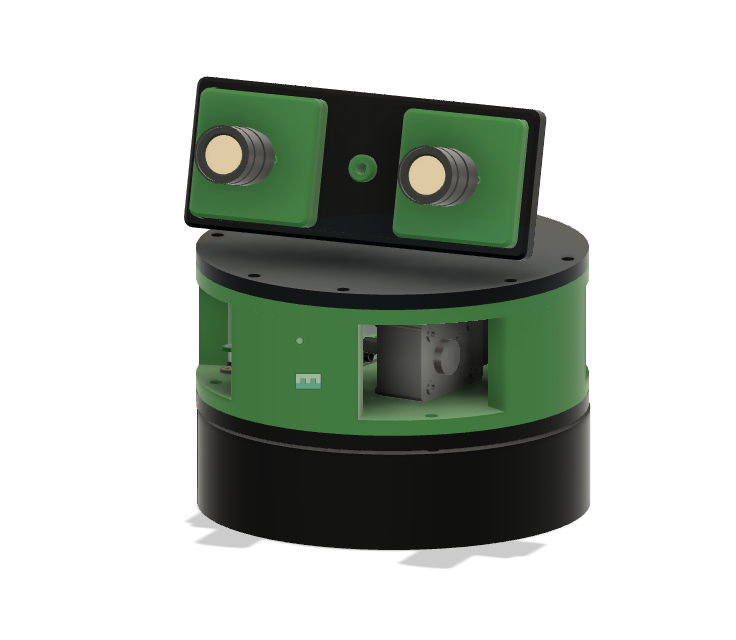
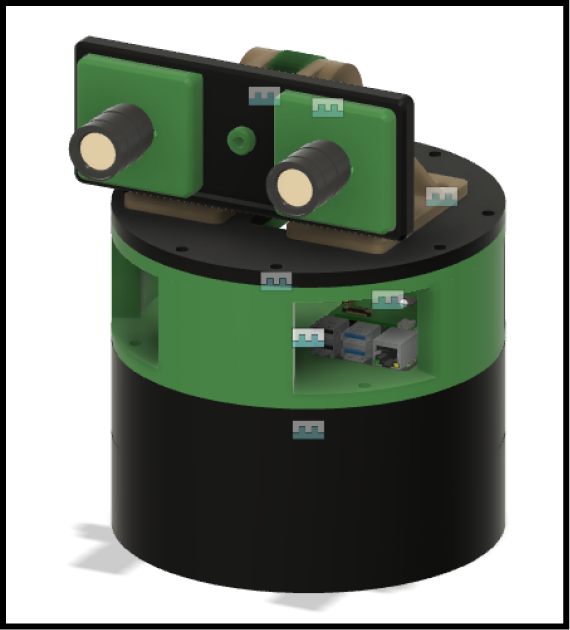
readme

diff --git a/README.md b/README.md
@@ -46,6 +46,12 @@ Joystick Expansion Module
 ## PCB
 A PCB will be created to avoid wiring the 9x9 keyboard matrix and the esp32
 
+## Mechanical Design
+I haven't yet determined how I am going to handle the tilt mechanism as well as its homing and overtravel limits. This is an old photo and I have since switched the color theme and reduced the height of the machine.
+
+Approximate Design 
+![Approximate Design](images/Mechanical/InProgress/ApproximateDesign.png)
+
 ## Assembly Photos
 I have been assembling as I go as well as purchasing on the go. From my previous project (Ethical Restroom) I absolutely hated the screwing situation and spent a ton of time fooling around with different tolerances to try an get a tight screw fitting. This project I decided to use heat inserts (2.5m, 3m, 5m) for more rigidity. This will make the final build much stronger, however it is much more time consuming. Also, the plastic fumes from my 3D printer and soldering heat inserts may take some years off my life haha. 
 
